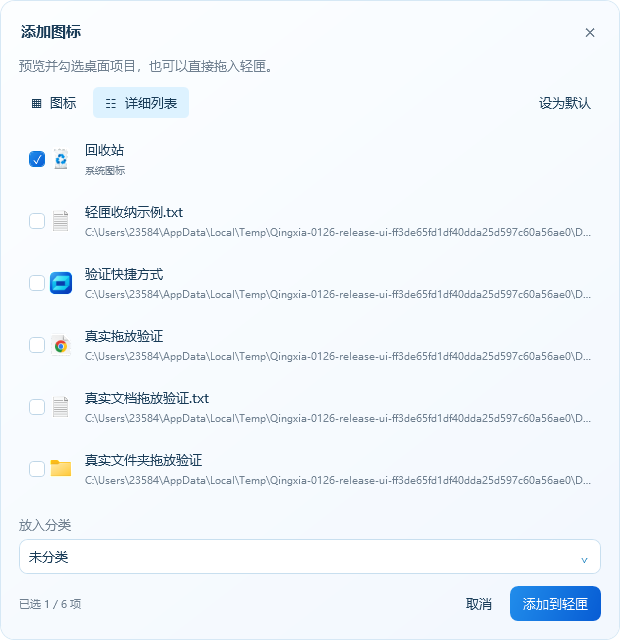
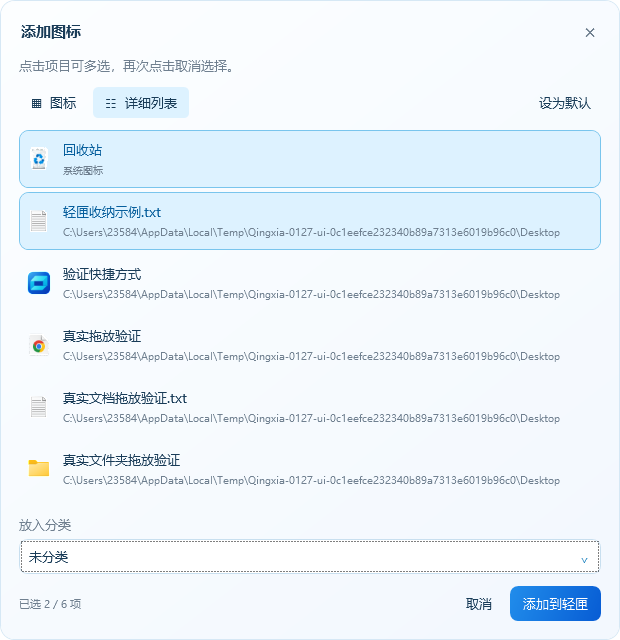
Replace collection checkboxes with highlighted multi-select tiles

diff --git a/native/DesktopNook.App/App.xaml b/native/DesktopNook.App/App.xaml
@@ -178,6 +178,20 @@
         </Setter.Value>
       </Setter>
     </Style>
+    <Style x:Key="CollectSelectionTile" TargetType="ToggleButton">
+      <Setter Property="Foreground" Value="{StaticResource Ink}"/><Setter Property="Cursor" Value="Hand"/><Setter Property="Padding" Value="7"/><Setter Property="HorizontalContentAlignment" Value="Stretch"/><Setter Property="FocusVisualStyle" Value="{x:Null}"/>
+      <Setter Property="Template"><Setter.Value><ControlTemplate TargetType="ToggleButton">
+        <Border x:Name="Tile" CornerRadius="9" Background="Transparent" BorderBrush="Transparent" BorderThickness="1" Padding="{TemplateBinding Padding}">
+          <ContentPresenter HorizontalAlignment="{TemplateBinding HorizontalContentAlignment}" VerticalAlignment="{TemplateBinding VerticalContentAlignment}"/>
+        </Border>
+        <ControlTemplate.Triggers>
+          <Trigger Property="IsMouseOver" Value="True"><Setter TargetName="Tile" Property="Background" Value="#EBF7FF"/></Trigger>
+          <Trigger Property="IsChecked" Value="True"><Setter TargetName="Tile" Property="Background" Value="#DDF2FF"/><Setter TargetName="Tile" Property="BorderBrush" Value="#79C5ED"/><Setter Property="Foreground" Value="#075F9D"/></Trigger>
+          <Trigger Property="IsKeyboardFocused" Value="True"><Setter TargetName="Tile" Property="BorderBrush" Value="#0877BE"/></Trigger>
+          <Trigger Property="IsEnabled" Value="False"><Setter Property="Opacity" Value=".45"/></Trigger>
+        </ControlTemplate.Triggers>
+      </ControlTemplate></Setter.Value></Setter>
+    </Style>
     <Style TargetType="CheckBox">
       <Setter Property="Foreground" Value="{StaticResource Ink}"/><Setter Property="Padding" Value="6"/><Setter Property="Cursor" Value="Hand"/>
       <Setter Property="Template"><Setter.Value><ControlTemplate TargetType="CheckBox">

diff --git a/native/DesktopNook.App/BrandVerification.cs b/native/DesktopNook.App/BrandVerification.cs
@@ -3,6 +3,7 @@ using System.IO;
 using System.Runtime.InteropServices;
 using System.Windows;
 using System.Windows.Controls;
+using System.Windows.Controls.Primitives;
 using System.Windows.Media;
 using System.Windows.Media.Imaging;
 using System.Windows.Threading;
@@ -72,15 +73,21 @@ internal static class BrandVerification
             category.IsDropDownOpen=true;await collect.Dispatcher.InvokeAsync(()=>{},DispatcherPriority.ContextIdle);
             if(category.SelectedValue as string!=App.Store.DefaultCategoryId||category.ItemContainerGenerator.ContainerFromIndex(0) is not ComboBoxItem)throw new Exception("分类下拉框未正确显示。");
             category.IsDropDownOpen=false;collect.UpdateLayout();if(!Find<TextBlock>(category).Any(t=>t.Text==App.Store.State.Categories.Single(c=>c.Id==App.Store.DefaultCategoryId).Name))throw new Exception("分类下拉框未显示可见名称。");
-            var checkbox=Find<CheckBox>(collect).First();checkbox.IsChecked=true;collect.UpdateLayout();
-            if(collect.Selection.Count!=1||!Find<Button>(collect).Single(b=>b.IsDefault).IsEnabled)throw new Exception("勾选后收纳按钮未启用。");
+            var tiles=Find<ToggleButton>(collect).Where(t=>t.Tag is DesktopEntry).Take(2).ToArray();
+            void Toggle(ToggleButton tile){var peer=new System.Windows.Automation.Peers.ToggleButtonAutomationPeer(tile);((System.Windows.Automation.Provider.IToggleProvider)peer.GetPattern(System.Windows.Automation.Peers.PatternInterface.Toggle)).Toggle();}
+            Toggle(tiles[0]);Toggle(tiles[1]);collect.UpdateLayout();
+            if(collect.Selection.Count!=2||!Find<Button>(collect).Single(b=>b.IsDefault).IsEnabled)throw new Exception("图标多选后添加按钮未启用。");
+            Toggle(tiles[0]);if(collect.Selection.Count!=1||tiles[1].IsChecked!=true)throw new Exception("取消一个选择影响了其他项目。");Toggle(tiles[0]);
+            if(Find<CheckBox>(collect).Any())throw new Exception("添加窗口仍有可见勾选框控件。");
+            foreach(var tile in tiles)if(Find<Border>(tile).Single(b=>b.Name=="Tile").Background is not SolidColorBrush background||background.Color!=Color.FromRgb(221,242,255))throw new Exception("选中项目未高亮。");
+            checks.Add("Collect tiles highlight without checkbox glyphs; independent toggles retain multi-selection and deselect only the clicked item");
             if(collect.ViewMode!="icons")throw new Exception("新用户默认视图不是图标。");
             await collect.Dispatcher.InvokeAsync(()=>{},DispatcherPriority.ContextIdle);await Task.Delay(1000);
             Save(collect,Path.Combine(root,"collect-brand-preview.png"));
-            var selected=collect.Selection.Single();var categoryBefore=collect.CategoryId;
+            var selected=collect.Selection.ToArray();var categoryBefore=collect.CategoryId;
             collect.SetView("details");collect.UpdateLayout();
             await collect.Dispatcher.InvokeAsync(()=>{},DispatcherPriority.ContextIdle);await Task.Delay(1000);
-            if(collect.Selection.Single()!=selected||collect.CategoryId!=categoryBefore)throw new Exception("切换视图丢失选择或分类。");
+            if(!collect.Selection.SequenceEqual(selected)||collect.CategoryId!=categoryBefore)throw new Exception("切换视图丢失选择或分类。");
             Save(collect,Path.Combine(root,"collect-details-preview.png"));
             Find<Button>(collect).Single(b=>System.Windows.Automation.AutomationProperties.GetAutomationId(b)=="CollectView-SaveDefault").RaiseEvent(new RoutedEventArgs(Button.ClickEvent));
             bool closeBefore=App.Options.CloseEndsProcess;App.Options.CloseEndsProcess=!closeBefore;App.Options.CloseEndsProcess=closeBefore;
@@ -88,7 +95,7 @@ internal static class BrandVerification
             var reopened=new CollectWindow(App.Store,categoryBefore){Owner=owner};
             try{if(reopened.ViewMode!="details")throw new Exception("默认视图没有跨窗口保存。");}finally{reopened.Close();}
             collect.SetView("icons");collect.UpdateLayout();
-            if(collect.Selection.Single()!=selected)throw new Exception("切回图标后丢失勾选。");
+            if(!collect.Selection.SequenceEqual(selected))throw new Exception("切回图标后丢失选择。");
             App.Options.DefaultCollectView="icons";
             checks.Add("Collect icons/details switch preserves selection/category, defaults to icons and persists a chosen default through preference writes");
         }

diff --git a/native/DesktopNook.App/Dialogs.cs b/native/DesktopNook.App/Dialogs.cs
@@ -1,6 +1,7 @@
 using System.IO;
 using System.Windows;
 using System.Windows.Controls;
+using System.Windows.Controls.Primitives;
 using System.Windows.Media;
 using DesktopNook.Core;
 
@@ -26,7 +27,7 @@ internal sealed class TextDialog : Window
 internal sealed record DesktopEntry(string Path,string Name,string Source,bool Recycle);
 internal sealed class CollectWindow : Window
 {
-    private readonly List<CheckBox> _checks=[];
+    private readonly List<ToggleButton> _checks=[];
     private readonly ComboBox _categories;
     private readonly string _defaultCategory;
     private readonly ScrollViewer _scroll=new(){VerticalScrollBarVisibility=ScrollBarVisibility.Auto,HorizontalScrollBarVisibility=ScrollBarVisibility.Disabled};
@@ -43,7 +44,7 @@ internal sealed class CollectWindow : Window
         _accept.Style=(Style)Application.Current.FindResource("PrimaryButton");
         var root=new Grid{Margin=new Thickness(18,10,18,18)};
         foreach(var height in new[]{GridLength.Auto,GridLength.Auto,new GridLength(1,GridUnitType.Star),GridLength.Auto,GridLength.Auto})root.RowDefinitions.Add(new(){Height=height});
-        root.Children.Add(new TextBlock{Text="预览并勾选桌面项目，也可以直接拖入轻匣。",Foreground=Brushes.SlateGray,Margin=new Thickness(0,0,0,12)});
+        root.Children.Add(new TextBlock{Text="点击项目可多选，再次点击取消选择。",Foreground=Brushes.SlateGray,Margin=new Thickness(0,0,0,12)});
         var toolbar=new DockPanel{Margin=new Thickness(0,0,0,10)};DockPanel.SetDock(_saveDefault,Dock.Right);toolbar.Children.Add(_saveDefault);
         var views=new StackPanel{Orientation=Orientation.Horizontal};views.Children.Add(_icons);_details.Margin=new Thickness(5,0,0,0);views.Children.Add(_details);toolbar.Children.Add(views);Grid.SetRow(toolbar,1);root.Children.Add(toolbar);
         System.Windows.Automation.AutomationProperties.SetAutomationId(_icons,"CollectView-Icons");System.Windows.Automation.AutomationProperties.SetAutomationId(_details,"CollectView-Details");System.Windows.Automation.AutomationProperties.SetAutomationId(_saveDefault,"CollectView-SaveDefault");
@@ -66,7 +67,7 @@ internal sealed class CollectWindow : Window
         if(!store.State.Items.Any(i=>i.Kind=="recycle-bin")&&App.Recycle.IsVisible)entries.Add(new("","回收站","系统图标",true));
         foreach(var entry in entries.OrderBy(i=>i.Name,StringComparer.CurrentCulture))
         {
-            var check=new CheckBox{Tag=entry,VerticalContentAlignment=VerticalAlignment.Center,ToolTip=entry.Recycle?"系统回收站，不会清空内容":entry.Path};
+            var check=new ToggleButton{Tag=entry,Style=(Style)Application.Current.FindResource("CollectSelectionTile"),VerticalContentAlignment=VerticalAlignment.Center,ToolTip=entry.Recycle?"系统回收站，不会清空内容":entry.Path};
             System.Windows.Automation.AutomationProperties.SetName(check,entry.Name);
             check.Checked+=(_,_)=>UpdateSelection();check.Unchecked+=(_,_)=>UpdateSelection();_checks.Add(check);
         }
@@ -90,7 +91,7 @@ internal sealed class CollectWindow : Window
             var image=new ShellIcon{IconPath=entry.Path,IsRecycleBin=entry.Recycle,Width=mode=="icons"?40:24,Height=mode=="icons"?40:24};
             if(mode=="icons")
             {
-                var tile=new StackPanel{Width=92,HorizontalAlignment=HorizontalAlignment.Center};image.Margin=new Thickness(0,0,0,7);tile.Children.Add(image);tile.Children.Add(new TextBlock{Text=entry.Name,FontSize=12,TextAlignment=TextAlignment.Center,TextWrapping=TextWrapping.Wrap,TextTrimming=TextTrimming.CharacterEllipsis,MaxHeight=34,LineHeight=17});check.Content=tile;check.Width=134;check.Height=104;check.Margin=new Thickness(2,3,2,3);
+                var tile=new StackPanel{Width=112,HorizontalAlignment=HorizontalAlignment.Center};image.Margin=new Thickness(0,0,0,7);tile.Children.Add(image);tile.Children.Add(new TextBlock{Text=entry.Name,FontSize=12,TextAlignment=TextAlignment.Center,TextWrapping=TextWrapping.Wrap,TextTrimming=TextTrimming.CharacterEllipsis,MaxHeight=34,LineHeight=17});check.Content=tile;check.Width=134;check.Height=104;check.Margin=new Thickness(2,3,2,3);
             }
             else
             {

diff --git a/README.md b/README.md
@@ -1,6 +1,6 @@
 # 轻匣 · DesktopNook
 
-依赖 .NET 10 Windows Desktop Runtime（Windows x64）的桌面收纳工具，当前版本 **0.12.6**。支持桌面快捷方式、文件、文件夹和回收站入口收纳，分类、拖拽排序、任务栏开关、开机自启与确认后在线更新。
+依赖 .NET 10 Windows Desktop Runtime（Windows x64）的桌面收纳工具，当前版本 **0.12.7**。支持桌面快捷方式、文件、文件夹和回收站入口收纳，分类、拖拽排序、任务栏开关、开机自启与确认后在线更新。
 
 [项目交接](docs/项目交接.md) · [使用说明](docs/使用说明.md) · [开发与构建](docs/开发与构建.md) · [架构与数据](docs/架构与数据.md) · [界面规范](docs/界面与交互规范.md) · [清理记录](docs/清理记录.md)
 
@@ -10,14 +10,14 @@
 
 ## 下载与更新
 
-[最新正式版](https://github.com/fangmingzhao69-glitch/desktop-nook-releases/releases/latest) · [0.12.6 发行说明](https://github.com/fangmingzhao69-glitch/desktop-nook-releases/releases/tag/v0.12.6)
+[最新正式版](https://github.com/fangmingzhao69-glitch/desktop-nook-releases/releases/latest) · [0.12.7 发行说明](https://github.com/fangmingzhao69-glitch/desktop-nook-releases/releases/tag/v0.12.7)
 
 - 使用安装包可自动补装缺少的 .NET 10 桌面运行时；免安装 EXE 仍需先具备运行时。
 - `DesktopNook-Setup.exe`：安装或覆盖升级，无需先卸载；缺少运行时时确认下载并安装必要组件后继续；取消或失败保留原程序。
 - `DesktopNook-win-x64.exe`：含运行时的免安装版，放在固定目录运行。
 - `SHA256SUMS.txt`：发行包校验值。
 
-本机仅保留一套正式包，位于 `发布/轻匣-v0.12.6/`，不提交二进制到 Git。历史原型、旧包、候选稿、测试沙箱和构建缓存已清理，结果见[清理记录](docs/清理记录.md)。日常安装和用户数据位于项目之外，未被清理。
+本机仅保留一套正式包，位于 `发布/轻匣-v0.12.7/`，不提交二进制到 Git。历史原型、旧包、候选稿、测试沙箱和构建缓存已清理，结果见[清理记录](docs/清理记录.md)。日常安装和用户数据位于项目之外，未被清理。
 
 ## 目录
 
@@ -28,7 +28,7 @@ native/DesktopNook.Tests/  核心回归检查
 native/scripts/           图标生成、构建、安装与发布脚本
 native/releases/          当前版本说明
  docs/                    当前交接、使用与开发文档、截图和验收摘要
-发布/轻匣-v0.12.6/        本机正式交付包
+发布/轻匣-v0.12.7/        本机正式交付包
 ```
 
 ## 构建

diff --git a/docs/架构与数据.md b/docs/架构与数据.md
@@ -75,6 +75,6 @@
 Shell 图标仅在可视区域加载；控件离开可视区域或卸载时释放图片引用。缓存限 8 MiB 原始像素及 256 项，工作线程将完成的冻结图片只送给匹配控件。分类切换的 Unloaded 事件可能晚于控件移出界面树，因此坐标转换前核验祖先关系。预算不包含控件持有的图像或 WPF/GPU 副本。
 ## 0.12.6 添加视图偏好与补装
 
-preferences.json 增加可选 CollectView（icons/details），未选择时不写该字段，首次默认 icons；已有关闭偏好与窗口尺寸保持。设为默认时才保存，切换视图不修改默认。Snapshot 汇总现有设置，窗口大小、关闭行为和更新就绪保存都携带该字段，避免相互覆盖。勾选框对象跨视图复用，图标按原 ShellIcon 懒加载。
+preferences.json 增加可选 CollectView（icons/details），未选择时不写该字段，首次默认 icons；已有关闭偏好与窗口尺寸保持。设为默认时才保存，切换视图不修改默认。Snapshot 汇总现有设置，窗口大小、关闭行为和更新就绪保存都携带该字段，避免相互覆盖。选择控件对象跨视图复用，图标按原 ShellIcon 懒加载。0.12.7 起使用专属 ToggleButton 模板，只绘制选中背景与边框，不渲染勾选框；各项独立切换，支持连续多选和键盘空格。
 
 安装器只在交互安装并取得确认后补装；静默缺运行时返回 23，用户取消返回 1602，补装失败返回 24，安装后复核仍缺少返回 25。SHA-512 和微软签名验证通过后仅提升微软组件安装器，退出码 0/3010 视为成功并重新检测运行时；3010 提醒稍后重启，不设置轻匣安装器自动重启。只有确认运行时可用才停止旧程序并安装轻匣。

diff --git a/AGENTS.md b/AGENTS.md
@@ -1,6 +1,6 @@
 # 轻匣：维护规则
 
-- 当前产品为轻匣，正式版 0.12.6。先读 [项目交接](docs/项目交接.md)、[开发与构建](docs/开发与构建.md) 与 [架构与数据](docs/架构与数据.md)。用户已确认蓝青 A2 折角图标及相应 UI，不再沿废弃候选方向制作。
+- 当前产品为轻匣，正式版 0.12.7。先读 [项目交接](docs/项目交接.md)、[开发与构建](docs/开发与构建.md) 与 [架构与数据](docs/架构与数据.md)。用户已确认蓝青 A2 折角图标及相应 UI，不再沿废弃候选方向制作。
 - 用户已于 2026-11-10 在本机执行历史清理脚本。已复核 177 个目标均移除、4168 个文件约 11.471 GiB，正式包哈希和源码完整，真实配置/偏好哈希未变。见 [清理记录](docs/清理记录.md) 与验证结果。不要再把此前工具拦截当作当前未清理；也不要重复执行一次性清理以覆盖原验收结果。
 - 用户已选择依赖共享运行时。0.12.5 起正式包为依赖 .NET 10 Windows Desktop Runtime x64 的单 EXE，不再内置运行时；0.12.6 安装器支持确认后自动补装微软官方运行时，清单固定 SHA-512 并核验微软签名；保持轻量发布和运行时前置检查，不能仅为压缩体积而引入更高常驻内存。
 - 日常安装在 `E:\yingyon\DesktopNook`，数据在 `%LOCALAPPDATA%\DesktopNook`。最后现场核验为 56 项、7 分类，但用户可继续增删。以每次操作前即时状态为准，禁止用历史索引/截图回写。

diff --git a/docs/使用说明.md b/docs/使用说明.md
@@ -1,6 +1,6 @@
 # 使用说明
 
-当前版本：轻匣 0.12.6，Windows x64，需要 .NET 10 桌面运行时。
+当前版本：轻匣 0.12.7，Windows x64，需要 .NET 10 桌面运行时。
 
 ## 1. 打开与收起
 
@@ -12,9 +12,11 @@
 
 ## 2. 收纳与移回桌面
 
-点击「添加图标」，在图标预览中勾选桌面项目、选择分类并确认；也可直接将桌面快捷方式、文件或文件夹拖入面板。
+点击「添加图标」，在图标预览中点击选择桌面项目、选择分类并确认；也可直接将桌面快捷方式、文件或文件夹拖入面板。
 
-窗口上方可随时切换「图标」和「详细列表」，勾选项目及分类保持。首次默认图标视图；切到喜欢的视图后点「设为默认」，以后打开和更新后继续使用该默认值。只切换视图而不点「设为默认」不会更改下次打开方式。
+点击项目后以蓝色背景和边框高亮，可连续点击多个项目，无需按住 Ctrl；再次点击只取消该项，不影响其他已选项目。键盘空格也可切换当前项目的选择状态。
+
+窗口上方可随时切换「图标」和「详细列表」，多个选择及分类保持。首次默认图标视图；切到喜欢的视图后点「设为默认」，以后打开和更新后继续使用该默认值。只切换视图而不点「设为默认」不会更改下次打开方式。
 
 ![收纳窗口](images/collect.png)
 

diff --git a/docs/项目交接.md b/docs/项目交接.md
@@ -1,8 +1,10 @@
 # 项目交接：轻匣
 
-交接更新日期：2026-11-10。当前正式版：**0.12.6**。当前资料已归并，用户已在本机执行历史清理，并复核清单全部完成。后续以本文和当前源码为入口，详见[清理记录](清理记录.md)。
+交接更新日期：2026-11-10。当前正式版：**0.12.7**。当前资料已归并，用户已在本机执行历史清理，并复核清单全部完成。后续以本文和当前源码为入口，详见[清理记录](清理记录.md)。
 
 ## 本次维护
+
+0.12.7 按用户要求将添加窗口的勾选框改为纯高亮选择，图标和详细列表均支持独立点击多选/取消，切换视图保留选择。39 项原生界面检查与两种视图截图核验通过。见 [0.12.7 说明](../native/releases/v0.12.7.md)。
 
 0.12.6 增加运行时自动补装，以及添加窗口的图标/详细列表切换和可自定义默认视图。组件安装仅提权运行已验证的微软安装器；轻匣安装保留原用户身份。38 项界面检查、7 项补装控制流、真实下载签名与升级/安装回归均通过；本机已有运行时，不重复安装作为测试。见[0.12.6 说明](../native/releases/v0.12.6.md)。
 

diff --git a/native/README.md b/native/README.md
@@ -1,6 +1,6 @@
 # 原生源码
 
-当前版本 **0.12.6**，WPF / .NET 10，包含正式应用、数据核心、测试、矢量图标源、安装器及发行脚本。
+当前版本 **0.12.7**，WPF / .NET 10，包含正式应用、数据核心、测试、矢量图标源、安装器及发行脚本。
 
 - [项目交接](../docs/项目交接.md)
 - [开发与构建](../docs/开发与构建.md)
@@ -8,4 +8,4 @@
 
 运行 `pwsh -NoProfile -File native/scripts/Build.ps1` 可重新生成构建目录；清理后的 `bin/`、`obj/`、`artifacts/` 和测试目录不属于源码必需文件。
 
-本机正式包单独保留在项目的 `发布/轻匣-v0.12.6/`。后续功能修改应使用新版本号，不覆盖 GitHub 已公开的 0.12.6 资产。
+本机正式包单独保留在项目的 `发布/轻匣-v0.12.7/`。后续功能修改应使用新版本号，不覆盖 GitHub 已公开的 0.12.7 资产。

diff --git a/native/releases/v0.12.7.md b/native/releases/v0.12.7.md
@@ -1,0 +1,8 @@
+# 轻匣 0.12.7
+
+- 添加窗口去掉可见勾选框，选中项目用蓝色背景与边框高亮。
+- 点击项目独立选择，再次点击取消该项；可连续选中多个项目，无需按住 Ctrl。
+- 图标视图与详细列表使用一致的高亮选择方式，切换视图保留多选项目、分类和已选数量。
+- 保留键盘空格切换选择、默认视图设置及原有添加流程。
+
+39 项隔离原生界面检查通过，包含多选、单项取消、高亮呈现、无勾选框、切换视图保留选择与默认偏好保存，并核对两种视图截图。
